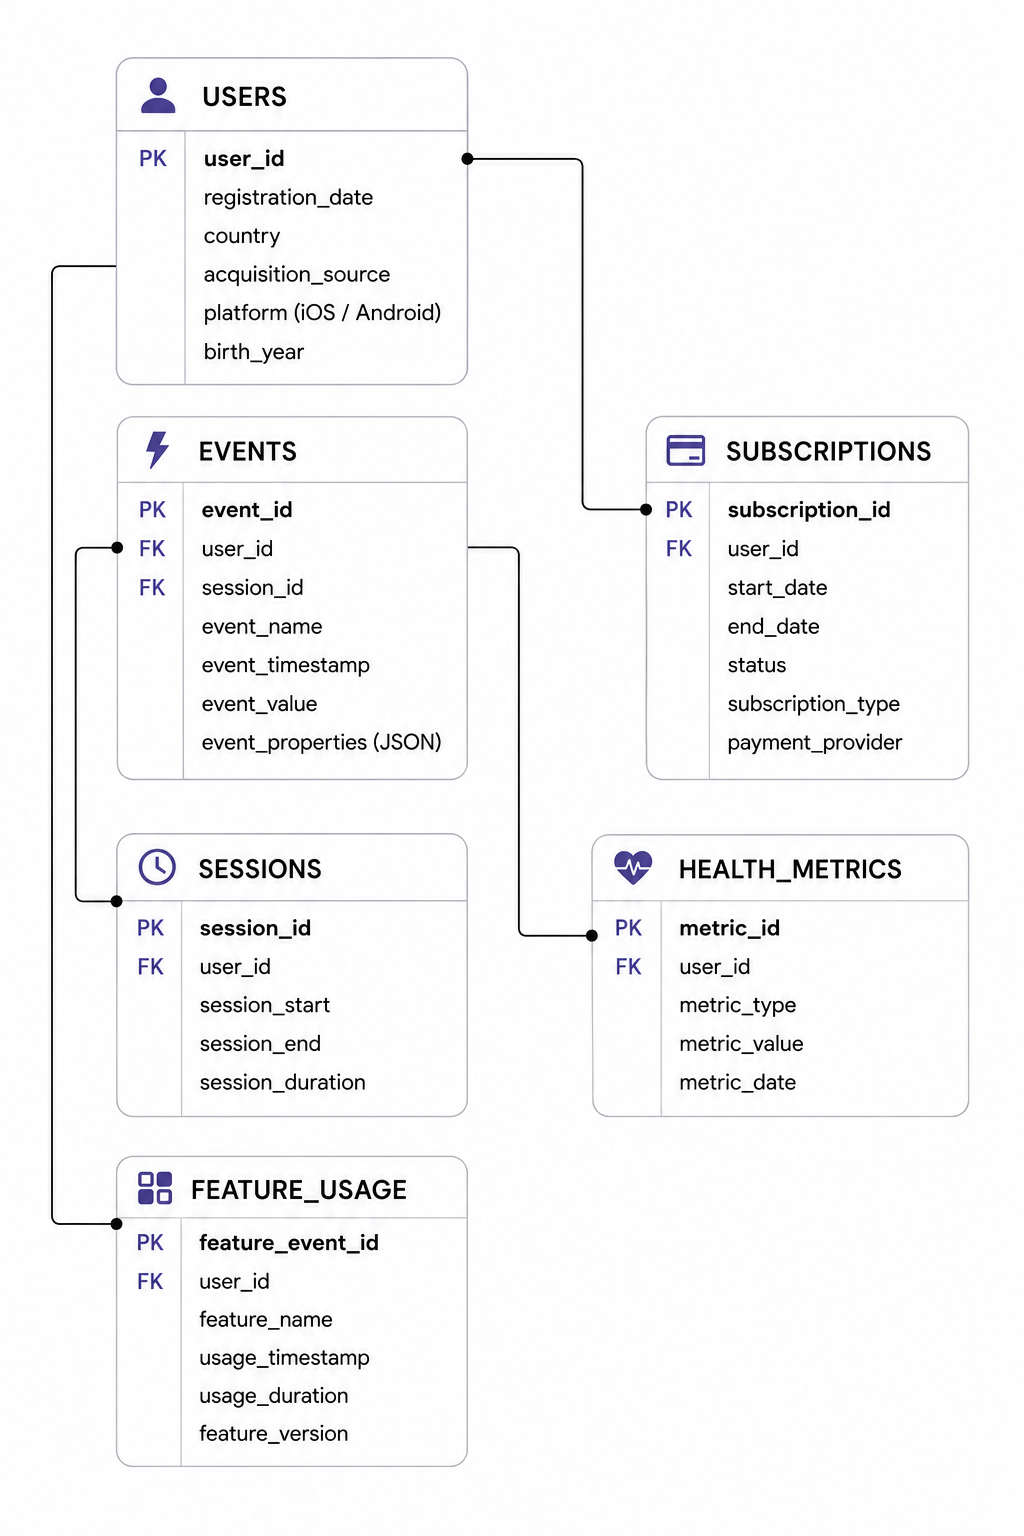
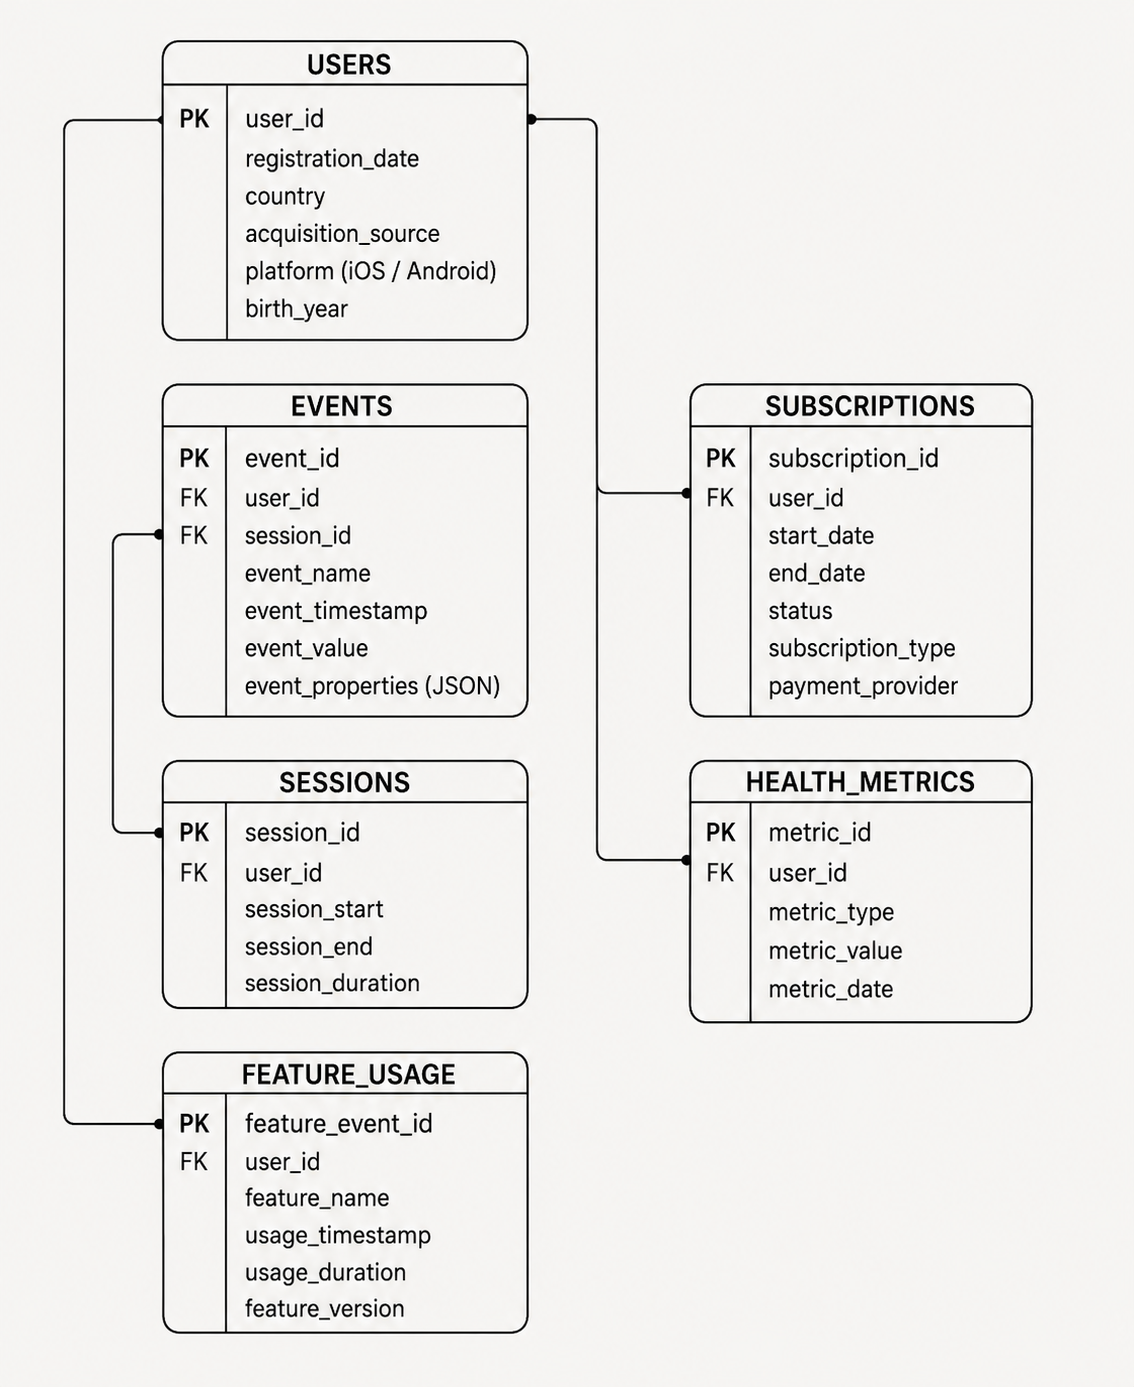
Design: update diagrams to grey-bg versions, shrink ER diagram, drop borders

diff --git a/index.html b/index.html
@@ -2732,12 +2732,12 @@
           </div>
           <div>
             <div style="font-size:11px;font-weight:700;letter-spacing:0.08em;color:#AEAEAD;text-transform:uppercase;margin-bottom:8px;">Event taxonomy & user journey</div>
-            <img src="img/thesis-user-journey.png" alt="User journey and event groups" class="zoomable" onclick="openLightbox(this.src)" style="width:100%;border-radius:6px;border:1px solid #E8E8E4;">
+            <img src="img/thesis-user-journey.png?v=3" alt="User journey and event groups" class="zoomable" onclick="openLightbox(this.src)" style="width:100%;border-radius:6px;">
             <div style="font-size:11px;color:#AEAEAD;margin-top:5px;">User lifecycle mapped to event groups — from launch & activation through engagement to subscription.</div>
           </div>
           <div>
             <div style="font-size:11px;font-weight:700;letter-spacing:0.08em;color:#AEAEAD;text-transform:uppercase;margin-bottom:8px;">Data model (ER diagram)</div>
-            <img src="img/thesis-er-diagram.png" alt="Entity-relationship diagram" class="zoomable" onclick="openLightbox(this.src)" style="width:100%;border-radius:6px;border:1px solid #E8E8E4;">
+            <img src="img/thesis-er-diagram.png?v=3" alt="Entity-relationship diagram" class="zoomable" onclick="openLightbox(this.src)" style="width:100%;max-width:430px;border-radius:6px;">
             <div style="font-size:11px;color:#AEAEAD;margin-top:5px;">Relational schema behind the framework — users, events, sessions, subscriptions, health metrics and feature usage.</div>
           </div>
         </div>`,